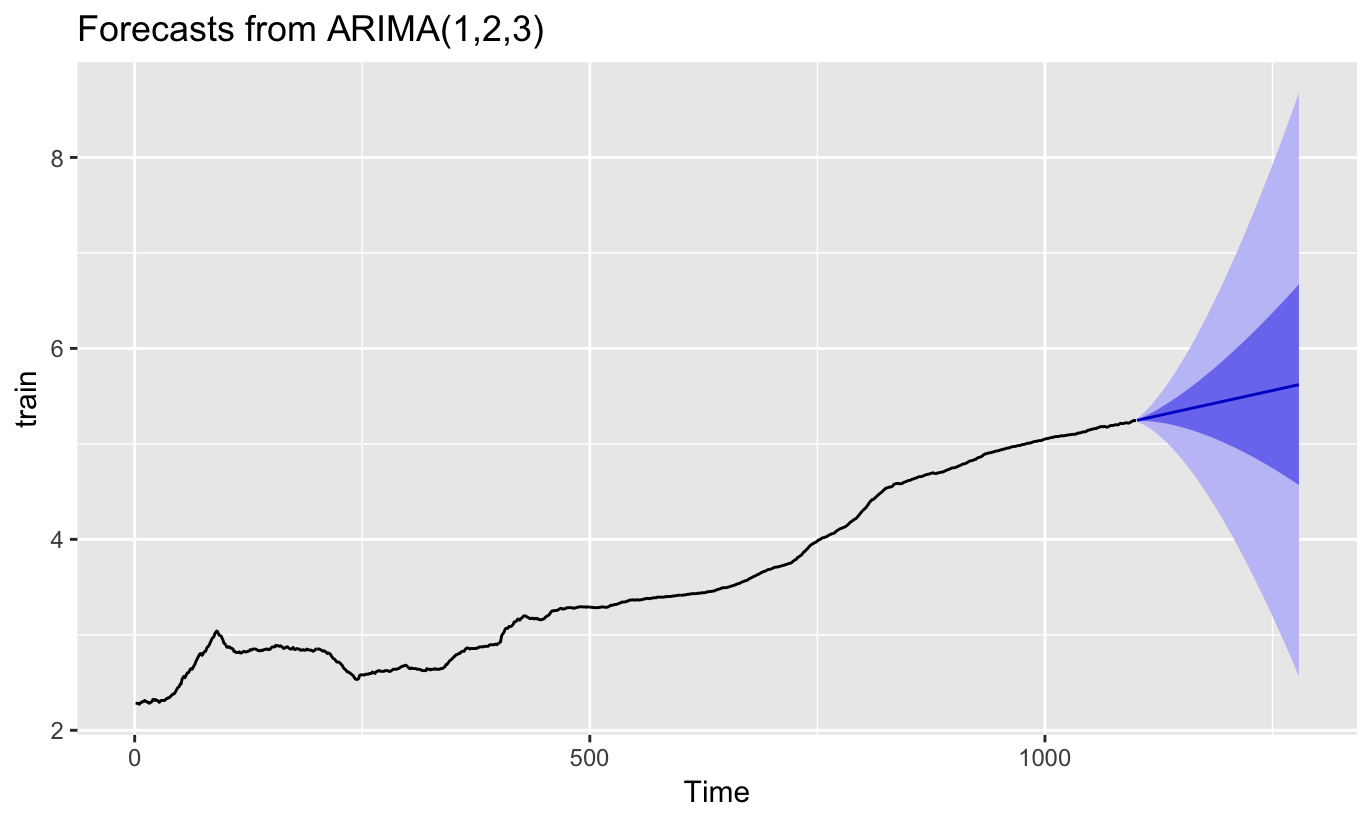
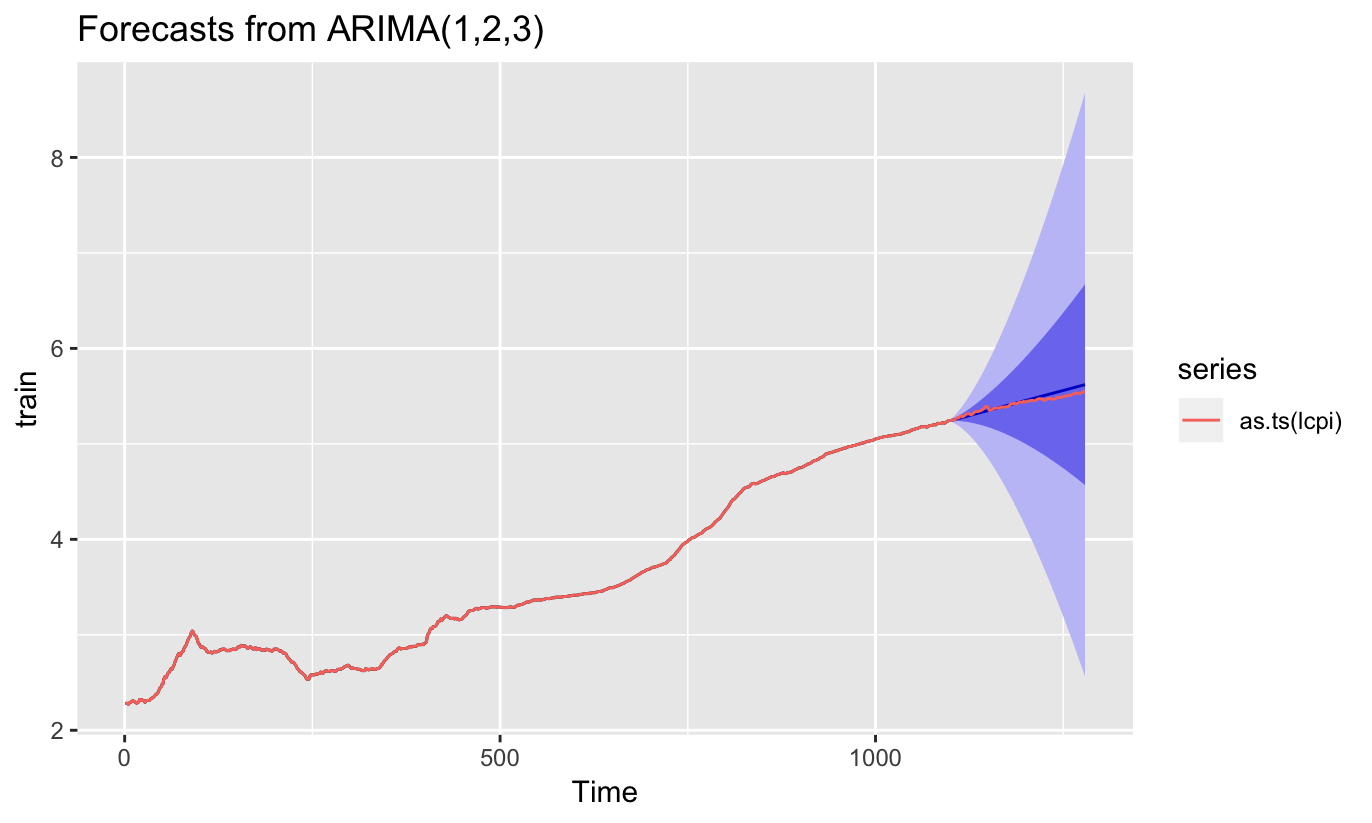
add autolayer

diff --git a/2019n-02/index.html b/2019n-02/index.html
@@ -603,7 +603,7 @@ lcpi_arima
 ```r
 lcpi_forecast &lt;- forecast(lcpi_arima, h = length(lcpi) - 1100, 
                           level = c(95, 50))
-autoplot(lcpi_forecast)
+autoplot(lcpi_forecast) + autolayer(as.ts(lcpi))
 ```
 
 &lt;img src="index_files/figure-html/forecast-1.png" height="320" style="display: block; margin: auto;" /&gt;
